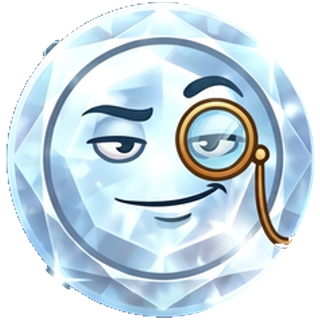
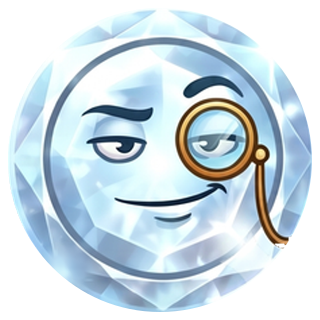
fix: eliminar destellos residuales del diamante

diff --git a/src/gameobjects/Fruit.ts b/src/gameobjects/Fruit.ts
@@ -131,14 +131,19 @@ export const ORB_TIER_HITBOX_FRACTIONS: Record<OrbTier, number> = {
     [OrbTier.Nucleo]: 0.7824,
     [OrbTier.Cristal]: 0.7818,
     [OrbTier.Prisma]: 0.7818,
-    // Re-measured against the real current 7_diamante.png (320x320, not
-    // the 340x340 this old 0.8147 value was computed against): last
-    // radius with alpha>=250 averaged 154.5px of a 160px half-width ->
-    // 0.9656. The stale, too-small value left the collider ~15 points
-    // smaller than the actually-opaque disc, letting the sprite visibly
-    // overlap neighbors and poke past the jar wall well before its real
-    // hitbox touched anything.
-    [OrbTier.OrbeSolar]: 0.9656,
+    // Re-measured against the current 7_diamante.png (320x320, not the
+    // 340x340 this old 0.8147 value was computed against): last radius
+    // with alpha>=250 averaged 151.25px of a 160px half-width -> 0.9453.
+    // The file was also masked to a perfect circle (radius 152px, a
+    // uniform 360-degree scan confirms zero remaining spikes anywhere) to
+    // remove two residual sparkle/glint decorations that broke the
+    // circular silhouette — the first mask pass (radius 159) left small
+    // edge nubs from both sparkles still poking through, tightening it to
+    // 152 (plus a separate content patch for the second sparkle's bright
+    // core, which sat inside the silhouette rather than past its edge)
+    // finally cleared both. Fraction dropped slightly from the previous
+    // 0.9656 as a result.
+    [OrbTier.OrbeSolar]: 0.9453,
     // All 4 new files measured identically (337px of 430px half-width on
     // all 4 cardinal rays) — same glow-margin convention across the set.
     [OrbTier.Esmeralda]: 0.7837,
